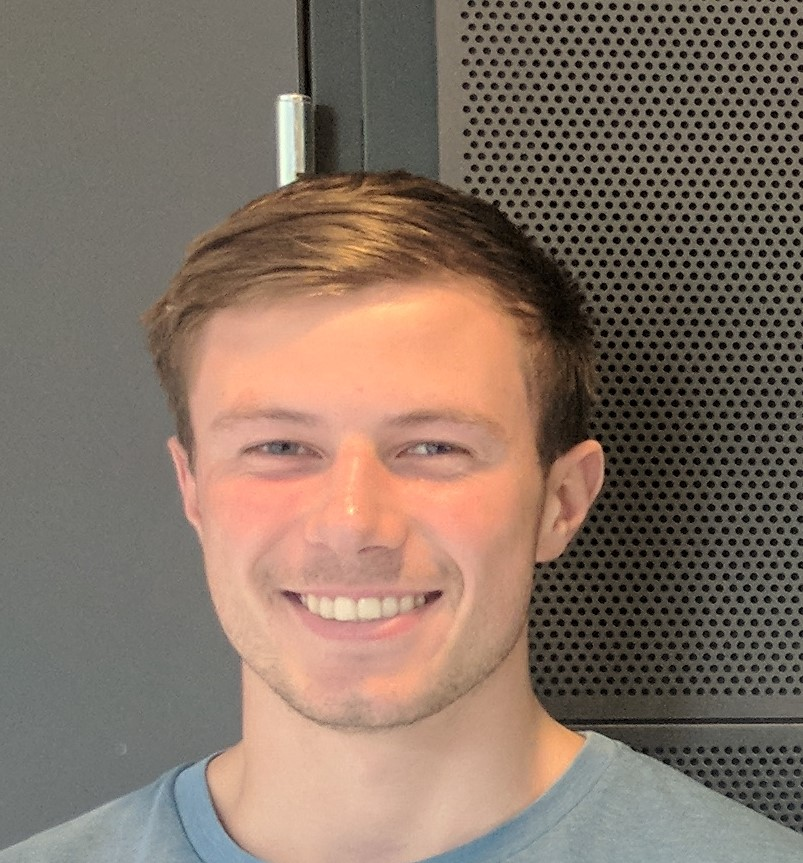
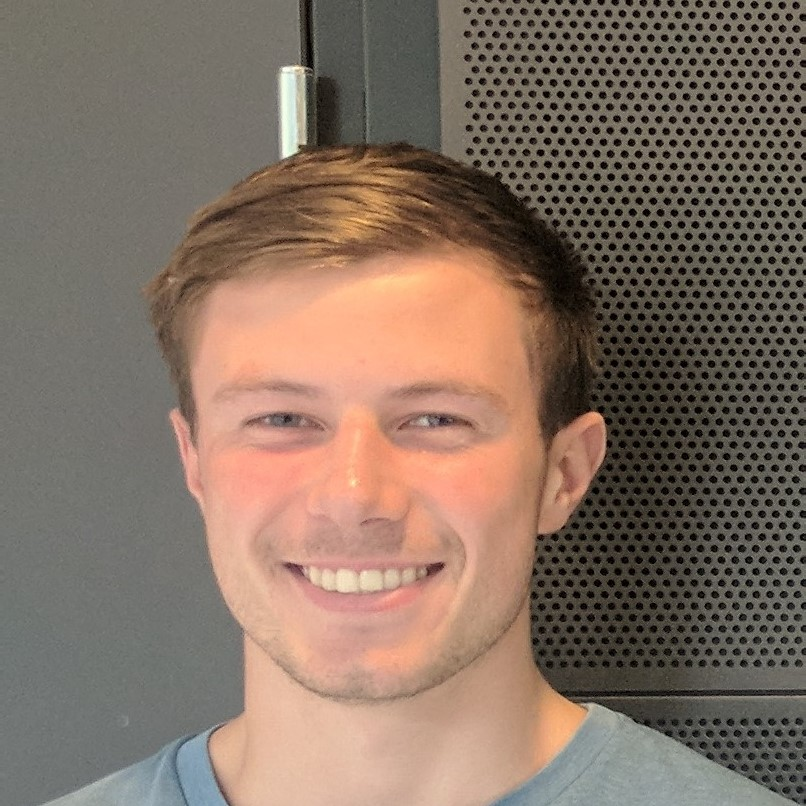
Fikset på anderg

diff --git a/members/andersg.html b/members/andersg.html
@@ -1,23 +1,22 @@
 <!DOCTYPE html>
 <html>
+
 <head>
   <title>Anders Finserås Graneng</title>
-  <style media="screen">
-    body  {
-      background-image: url(/img/trondheim.jpg);
-            background-color: #cccccc;
-        }
+  <link rel="stylesheet" href="/styles/styles.css">
+
   </style>
 </head>
-<center>
+
 <body>
-<h1> Anders Finserås Graneng</h1>
-<img src="/img/Anders G.jpg" width= 400 height= 400 >/<img>
-<ul>
-<li>da</li>
-<li>ha</li>
-</ul>
-</center>
+  <center>
+    <h1>Anders Finserås Graneng</h1>
+    <img class="member-large" src="/img/Anders G.jpg">
+      <ul>
+        <li>da</li>
+        <li>ha</li>
+      </ul>
+  </center>
 </body>
 
 <footer>
@@ -27,4 +26,3 @@
   </ol>
 </footer>
 </html>
- 
